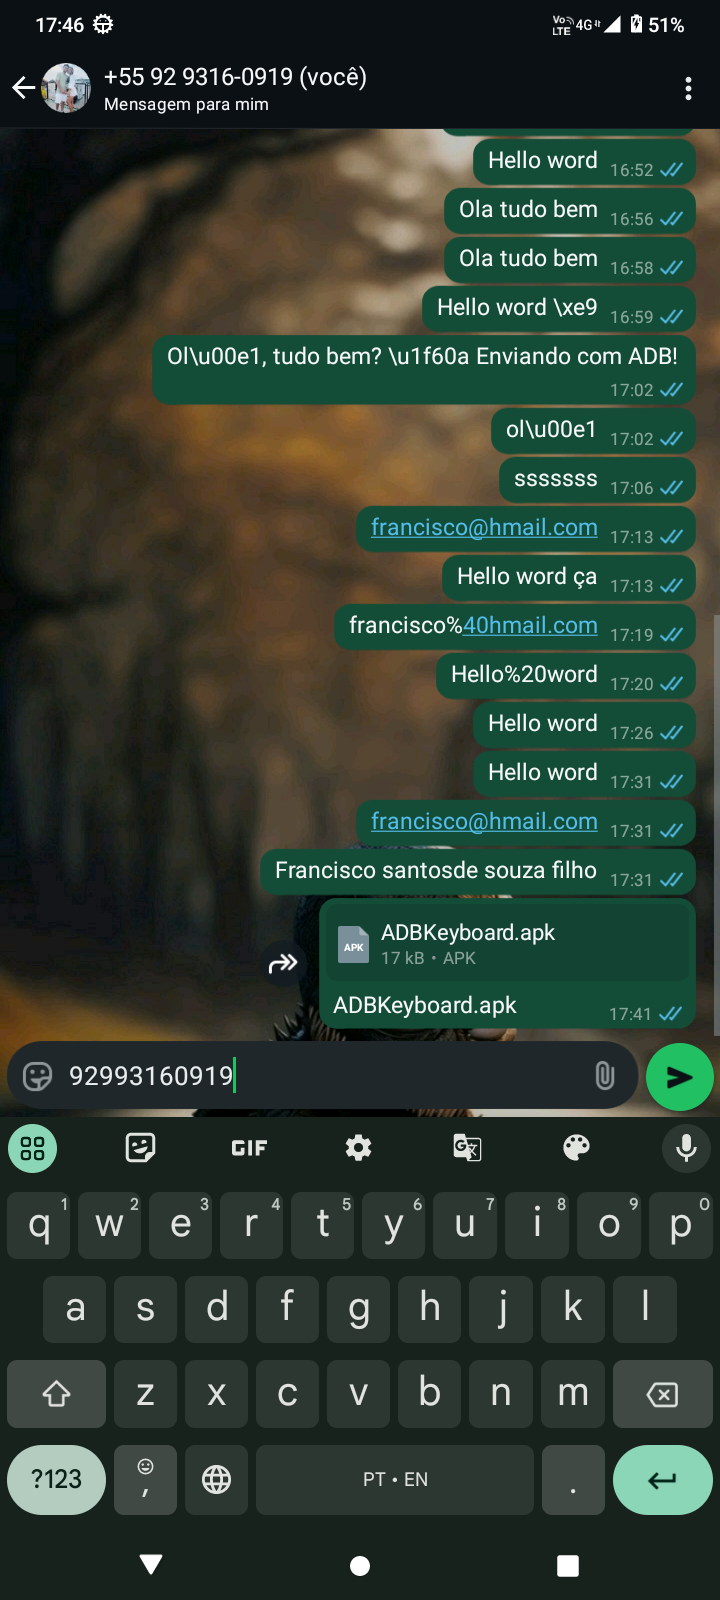
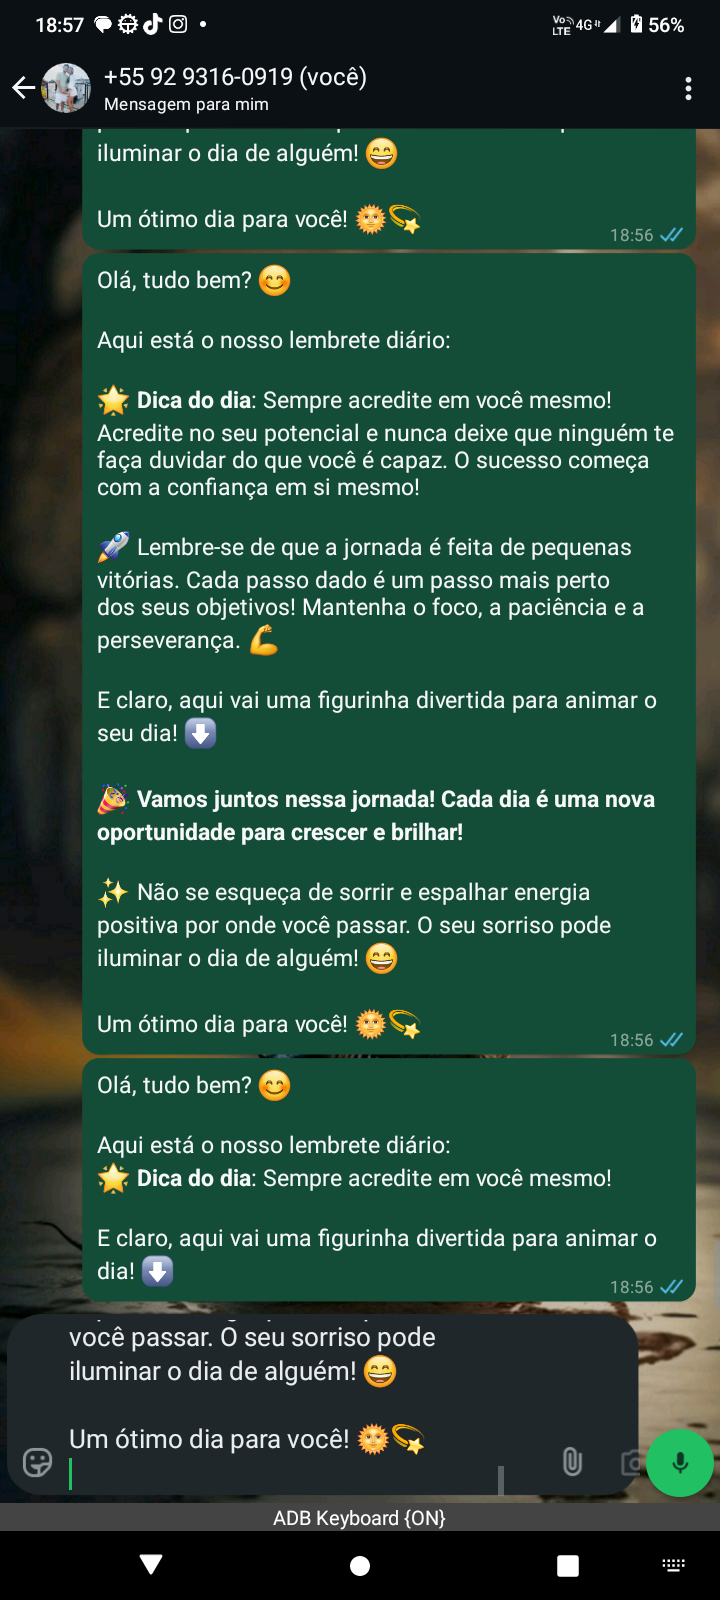
Thread no envio de msg

diff --git a/src/controller/mainController.py b/src/controller/mainController.py
@@ -4,6 +4,31 @@ from styles import SetupTheme
 from openpyxl import Workbook
 from openpyxl import load_workbook
 from src.android.androidDeviceManager import AndroidDeviceManager
+from PySide6.QtCore import QThread, Signal
+
+
+
+class AdbThread(QThread):
+
+    finished = Signal()
+    error = Signal(str)
+
+    def __init__(self, adb_manager, phone_number, message, parent=None):
+        super().__init__(parent)
+        self.adb_manager = adb_manager
+        self.phone_number = phone_number
+        self.message = message
+
+    def run(self):
+        try:
+
+            self.adb_manager.connect_device()
+            self.adb_manager.habiliar_adbkeyboard()
+            self.adb_manager.mensagem_whats(self.phone_number, self.message)
+            self.finished.emit()
+
+        except Exception as e:
+            self.error.emit(str(e))
 
 
 
@@ -17,6 +42,8 @@ class MainController:
         self.theme = SetupTheme()
         self.theme.setupTheme('dark')
         self.theme_select()
+
+        self.adb = None
 
         #-------------------------
         self.setup_connections()
@@ -42,30 +69,38 @@ class MainController:
 
         
     def start_process(self):
-
         selected_items = self.main_view.table_widget.selectedIndexes()
 
         if selected_items:
-            # Pegando o primeiro item selecionado
             index = selected_items[0]
             item = self.main_view.table_widget.item(index.row(), index.column())
-            
-            # Verificar se o item existe
+
             if item:
                 print(f"Item selecionado: {item.text()}")
-                adb = AndroidDeviceManager()
-                adb.connect_device()
-                adb.mensagem_whats("92993160919",item.text())
+                self.adb = AndroidDeviceManager()
+                self.adb_thread = AdbThread(self.adb, "92993160919", item.text())
+                
+                self.adb_thread.finished.connect(self.on_adb_finished)
+                self.adb_thread.error.connect(self.on_adb_error)
+                self.adb_thread.start()
+
             else:
                 print("Nenhum item selecionado ou item vazio.")
         else:
             print("Nenhum item selecionado.")
 
 
+    def on_adb_finished(self):
+       print("Comando ADB concluído com sucesso!")
+
+    def on_adb_error(self, error_message):
+      print(f"Erro ao executar o comando ADB: {error_message}")
+
+
     def stop_process(self):
-        pass
+        self.adb.reset_adbkeyboard()
 
-
+        
     def get_planilha(self,path):
         try:
             workbook = load_workbook(path)

diff --git a/src/android/androidDeviceManager.py b/src/android/androidDeviceManager.py
@@ -241,6 +241,22 @@ class AndroidDeviceManager:
 
         print("Teste PS-2.5.3 concluído.")
 
+    def habiliar_adbkeyboard(self):
+
+        if not self.device:
+            print("Nenhum dispositivo conectado.")
+            return None
+        self.device.shell(f'ime enable com.android.adbkeyboard/.AdbIME')
+        time.sleep(2)
+        self.device.shell(f'ime set com.android.adbkeyboard/.AdbIME')
+
+    def reset_adbkeyboard(self):
+        if not self.device:
+            print("Nenhum dispositivo conectado.")
+            return None
+        
+        self.device.shell(f'ime reset')
+
 
     def mensagem_whats(self,numero, msg):
 
@@ -258,7 +274,8 @@ class AndroidDeviceManager:
         time.sleep(2)
         
         # Digitar a mensagem
-        self.device.shell(f'input text "{msg}"')
+        # self.device.shell(f'input text "{msg}"')
+        self.device.shell(f'am broadcast -a ADB_INPUT_TEXT --es msg "{msg}"')
 
 
         result = self.device.screencap()
